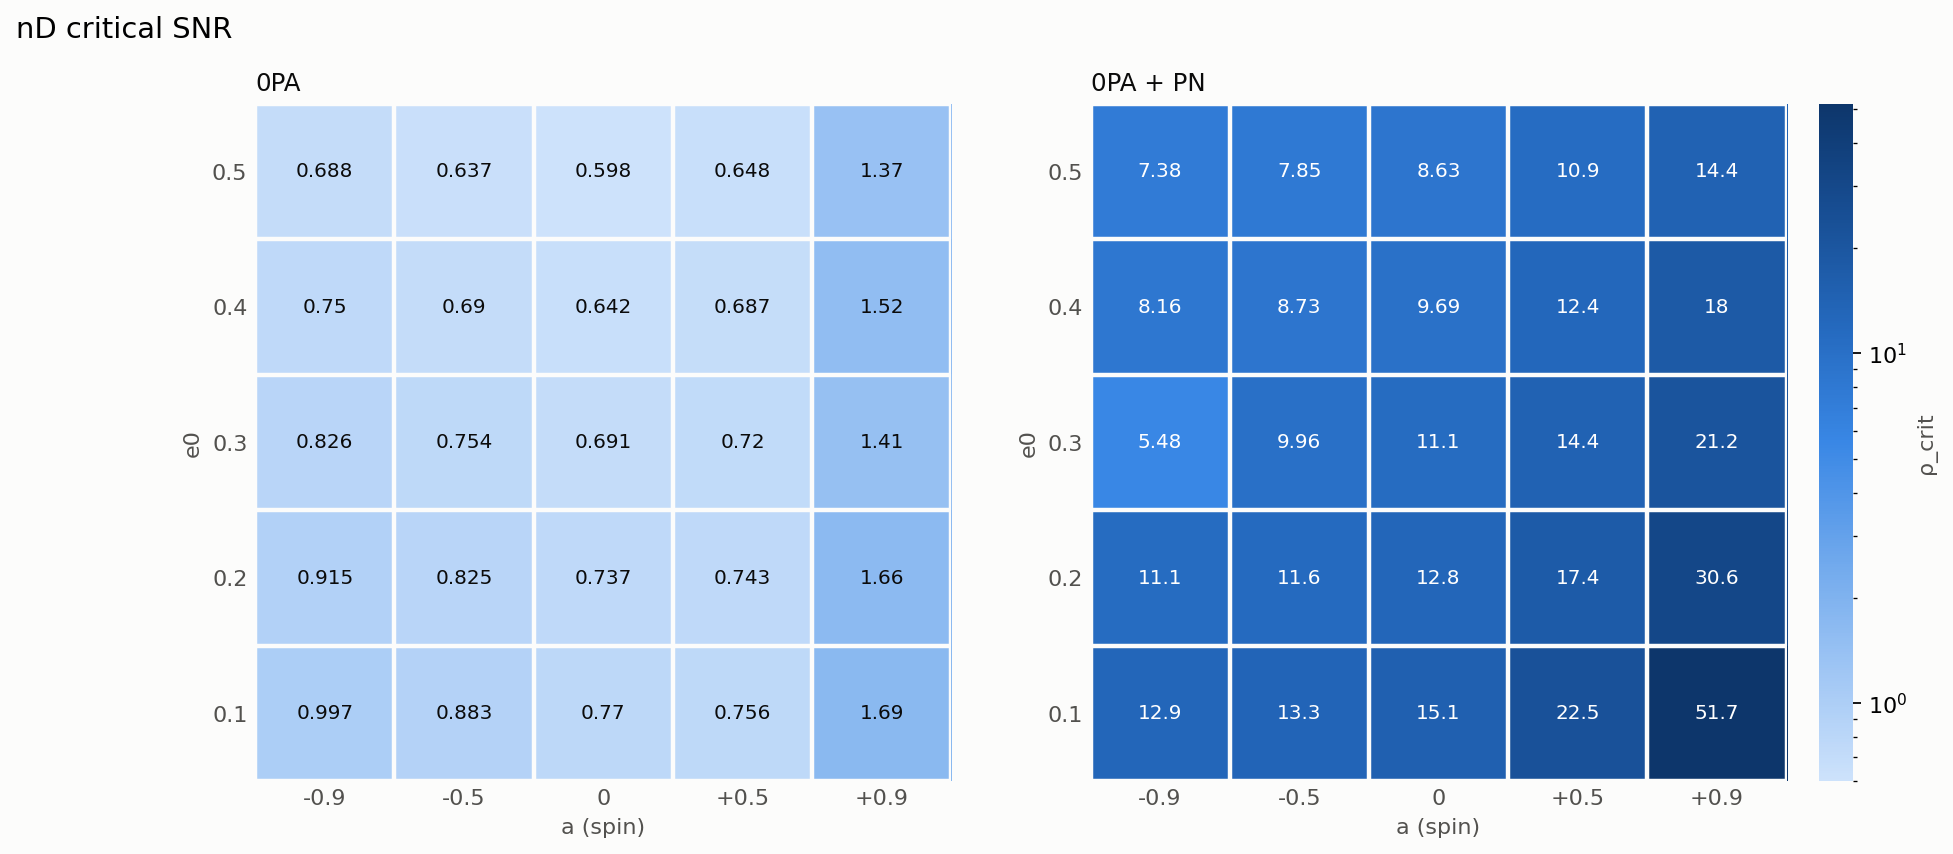
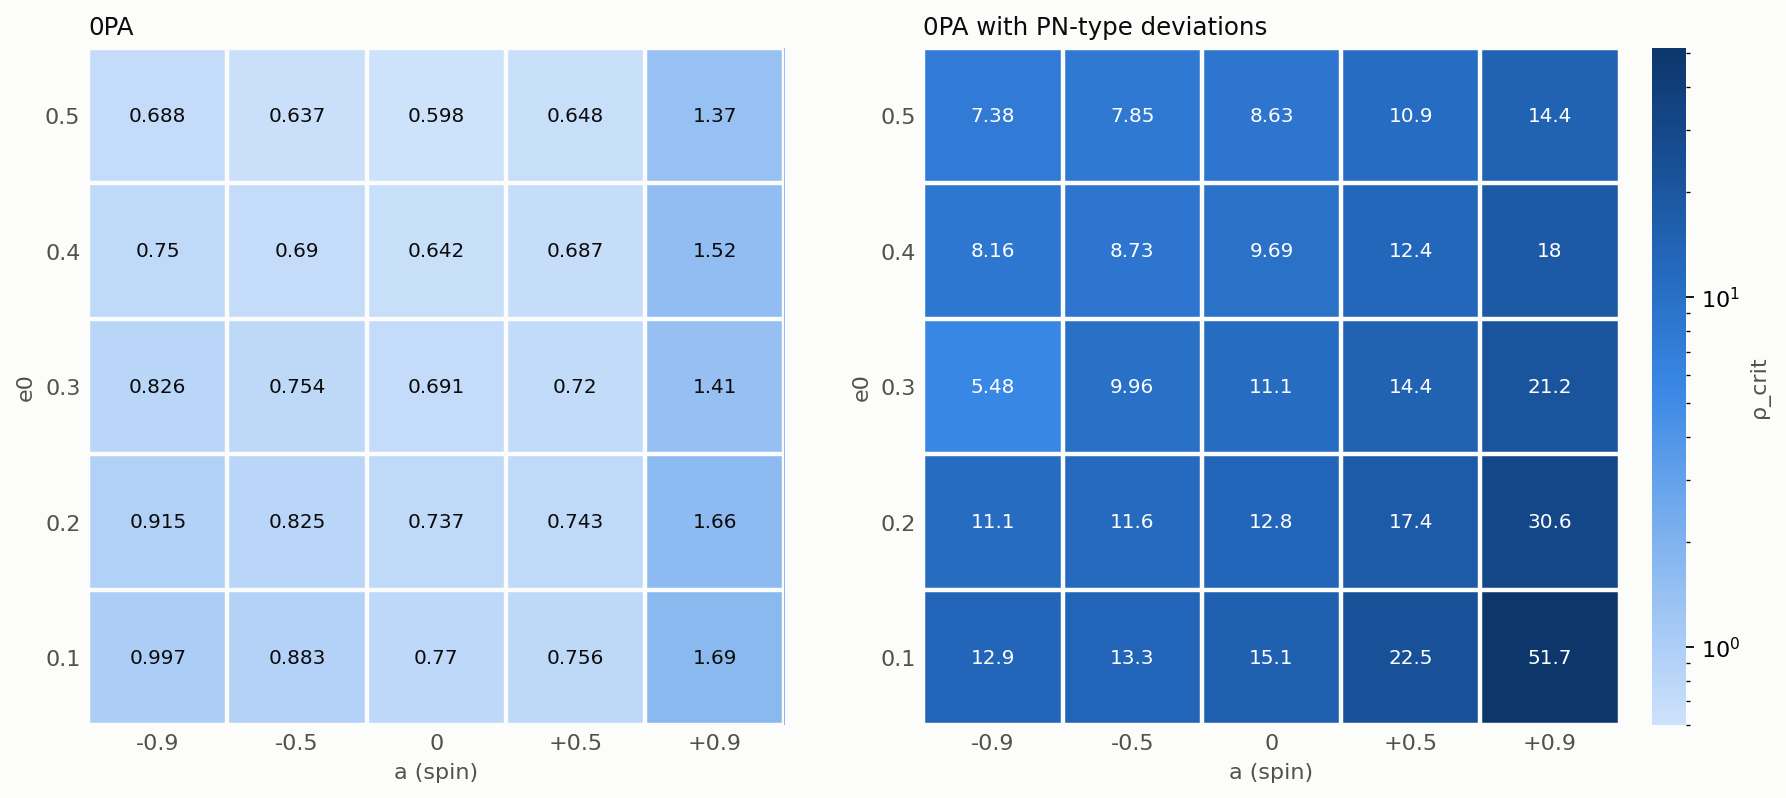
.

diff --git a/EMRI_1PA_PN_DEV/plot_codes/plot_critical_snr_nd.py b/EMRI_1PA_PN_DEV/plot_codes/plot_critical_snr_nd.py
@@ -1,8 +1,9 @@
-"""nD critical SNR only, 0PA and 0PA + PN side by side on one shared colour scale, no flag
-marks or footnotes; CL and phase choice only in the file name. plot_critical_snr.py has the
-full 1D/nD/ratio figure. Same definition:
-rho_crit = SNR0 D_CL / D, D over the physical parameters (C_p, C_e marginalised for 0PA + PN).
-    -> plots/critical_snr/snr_crit_nD_{with,no}_phases_{CL}CL.png
+"""1D and nD critical SNR on their own, 0PA and 0PA + PN side by side on one shared colour scale, no
+flag marks or footnotes; CL and phase choice only in the file name. plot_critical_snr.py has the
+full 1D/nD/ratio figure. Same definitions:
+1D : rho_crit = SNR0 z_CL / |worst bias/sigma|, worst parameter written under each value
+nD : rho_crit = SNR0 D_CL / D, D over the physical parameters (C_p, C_e marginalised for 0PA + PN).
+    -> plots/critical_snr/snr_crit_{1D,nD}_{with,no}_phases_{CL}CL.png
 
 Run:  python plot_critical_snr_nd.py
 """
@@ -11,32 +12,34 @@ import numpy as np
 from matplotlib.colors import LogNorm
 
 from common import out_file, SEQ, SURFACE, TEXT_2, grid, ink_on, style_axes
-from plot_critical_snr import CLS, SNR0, VARIANTS, critical
+from plot_critical_snr import CLS, SNR0, VARIANTS, critical, rho_label
 from bias_data import load_bias
 
-TEMPLATES = (("0pa", "0PA"), ("pn", "0PA + PN"))
+KINDS = ("1D", "nD")
+TEMPLATES = (("0pa", "0PA"), ("pn", "0PA with PN-type deviations"))
 
 
-def panel(ax, values, norm, title):
+def panel(ax, values, labels, norm, title):
     im = ax.imshow(values.astype(float), origin="lower", cmap=SEQ, norm=norm, aspect="auto")
-    for (y, x), v in np.ndenumerate(values):
-        ax.text(x, y, f"{v:.3g}", ha="center", va="center", fontsize=9, color=ink_on(SEQ(norm(v))))
+    for (y, x), text in np.ndenumerate(labels):
+        ax.text(x, y, text, ha="center", va="center", fontsize=9,
+                color=ink_on(SEQ(norm(values[y, x]))))
     style_axes(ax, title)
     ax.set_facecolor(SURFACE)
     return im
 
 
-def figure(pts, crits, cl, variant):
-    maps = {tag: grid(pts, lambda p, k=f"nD_{tag}": crits[p["idx"]][k]).astype(float)
+def figure(pts, crits, kind):
+    maps = {tag: grid(pts, lambda p, k=f"{kind}_{tag}": crits[p["idx"]][k]).astype(float)
             for tag, _ in TEMPLATES}
     norm = LogNorm(min(m.min() for m in maps.values()), max(m.max() for m in maps.values()))
     fig, axes = plt.subplots(1, 2, figsize=(13, 5.5), facecolor=SURFACE)
     for ax, (tag, name) in zip(axes, TEMPLATES):
-        im = panel(ax, maps[tag], norm, name)
+        labels = grid(pts, lambda p: rho_label(crits[p["idx"]], kind, tag))
+        im = panel(ax, maps[tag], labels, norm, name)
     cb = fig.colorbar(im, ax=axes, fraction=0.03, pad=0.02)
     cb.set_label("ρ_crit", color=TEXT_2)
     cb.outline.set_visible(False)
-    fig.suptitle("nD critical SNR", x=0.01, ha="left", fontsize=13)
     return fig
 
 
@@ -45,11 +48,12 @@ def main():
     for variant, (folder, _) in VARIANTS.items():
         for cl in CLS:
             crits = {p["idx"]: critical(p, cl, variant) for p in pts}
-            out = out_file("critical_snr", f"snr_crit_nD_{folder}_{cl * 100:.0f}CL.png")
-            figure(pts, crits, cl, variant).savefig(out, dpi=160, facecolor=SURFACE,
-                                                    bbox_inches="tight")
-            plt.close("all")
-            print(f"-> {out}")
+            for kind in KINDS:
+                out = out_file("critical_snr", f"snr_crit_{kind}_{folder}_{cl * 100:.0f}CL.png")
+                figure(pts, crits, kind).savefig(out, dpi=160, facecolor=SURFACE,
+                                                 bbox_inches="tight")
+                plt.close("all")
+                print(f"-> {out}")
 
 
 if __name__ == "__main__":
